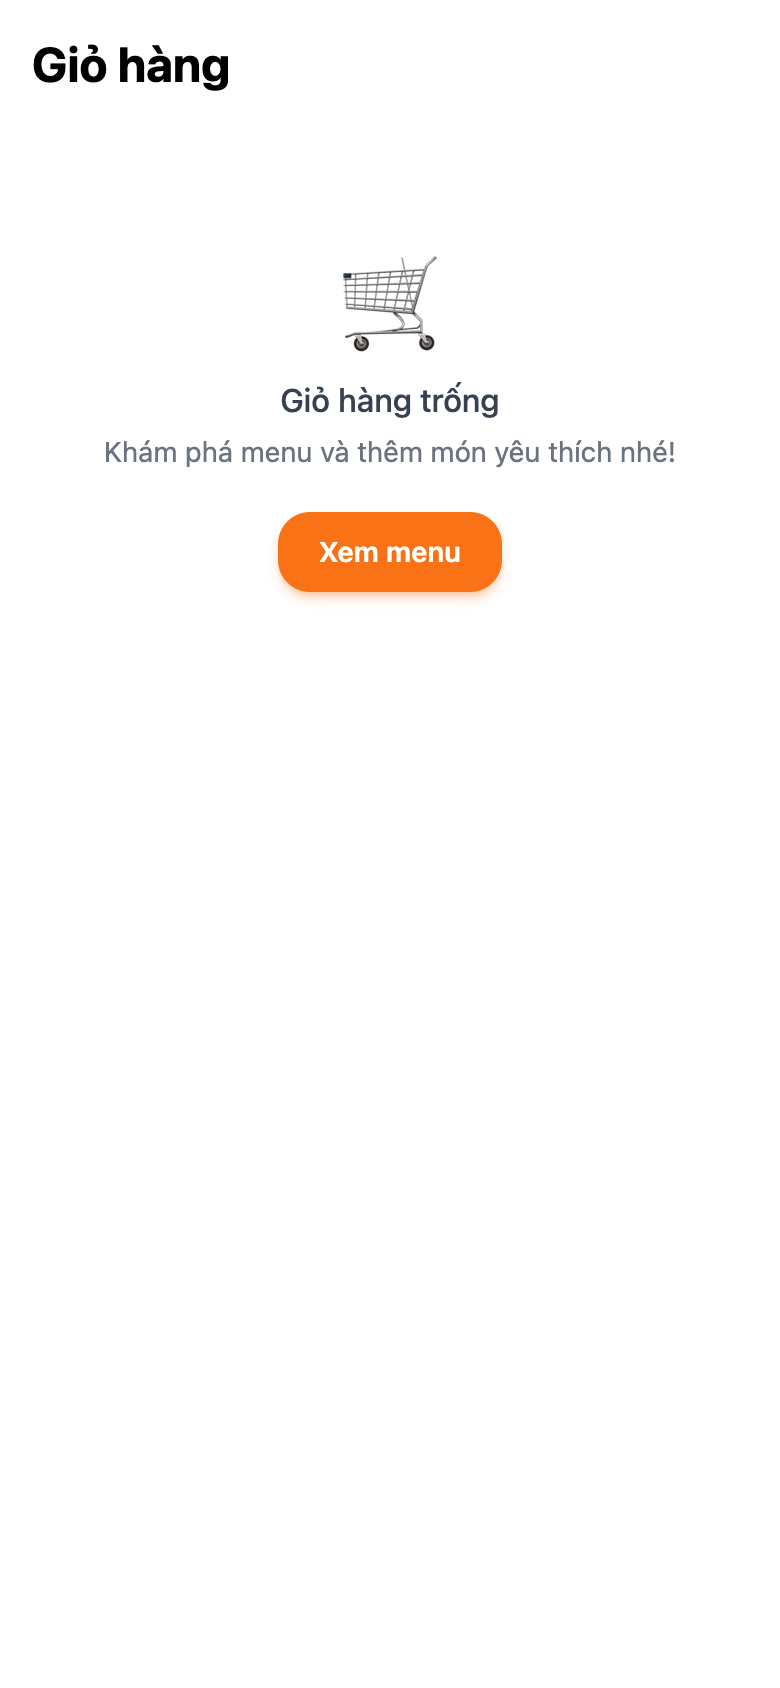
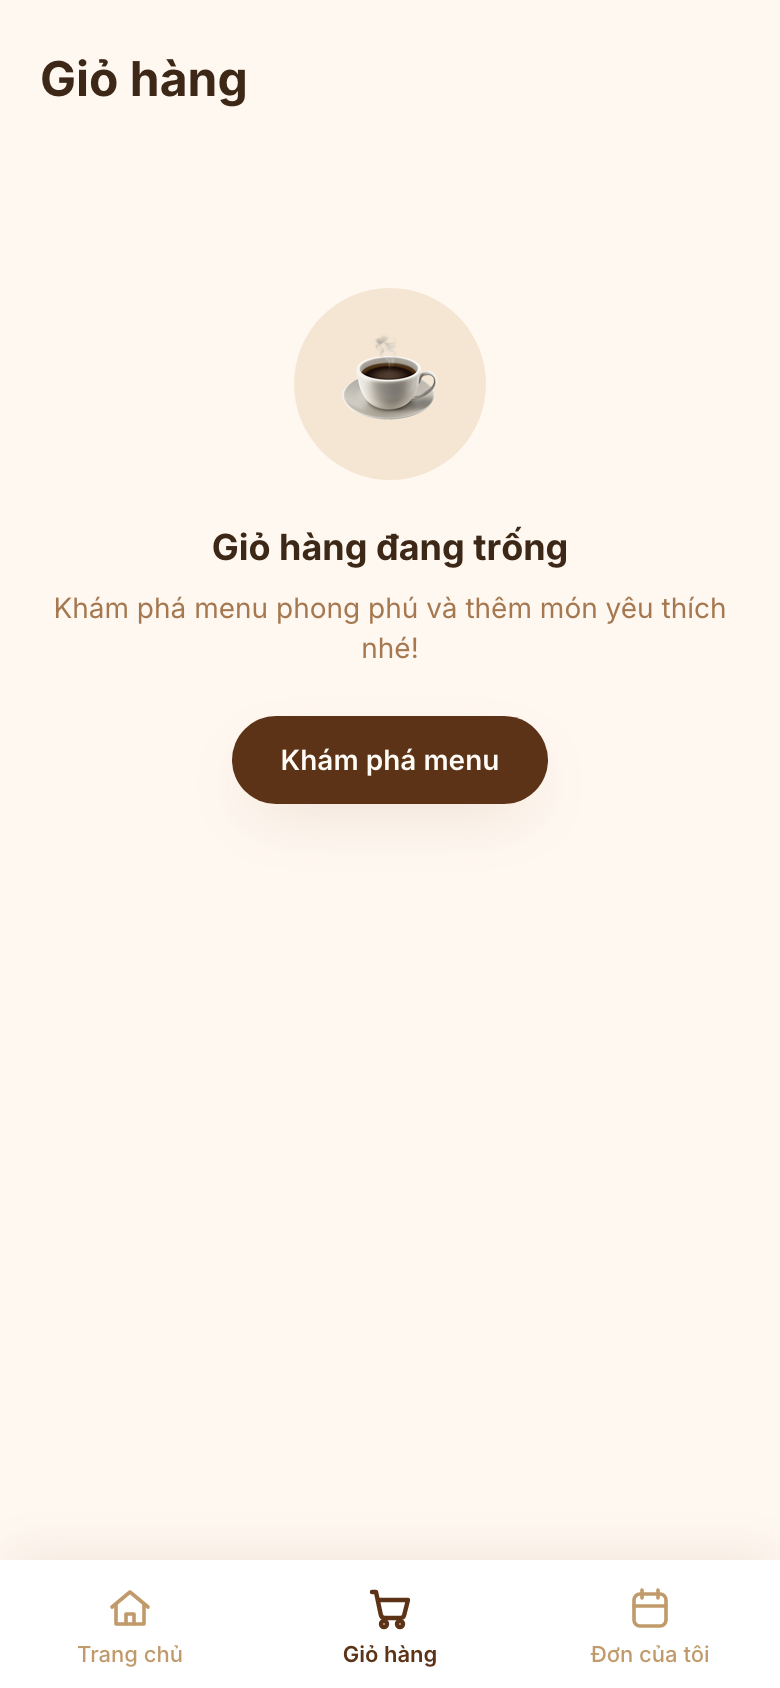
docs(thesis): refresh screenshots + document Settings page (Hình 4.5)
Recaptured 9 stale screenshots (miniapp + webadmin) after fixing a duplicate
React copy in the miniapp/zaloapp workspaces — a stray pnpm@10 store layered on
top of the workspace's pnpm@9 install was causing "Cannot read properties of
null (reading 'useState')" at startup. Added admin-08-settings.png for the new
shop-config Settings page.

Chương 4:
- 4.4.2 Mini App: document ThemeProvider + useShopConfig publishing CSS vars
- 4.4.3 Web Admin: add Hình 4.5 (Settings page) + describe shop-config flow
- 4.5 Migrations: bump count 12 → 13, add V13 shop_config row, fix V1 prose
  (V1 creates app_meta, not shop_config — that's V13)

Chương 5: bump stats (13 migrations, 19 screenshots).

06-danh-muc-hinh.md: list Hình 4.2 → 4.5 inline with the chapter.

Also includes a small DashboardPage tweak to render the live shop name in the
page header, matching the dynamic-theming theme of this work.

diff --git a/frontend/webadmin/src/pages/DashboardPage.tsx b/frontend/webadmin/src/pages/DashboardPage.tsx
@@ -65,7 +65,7 @@ export function DashboardPage() {
 
   return (
     <div>
-      <PageHeader title="Tổng quan" subtitle="Tóm tắt hoạt động shop trong hôm nay" />
+      <PageHeader title={`Tổng quan ${shopName}`} subtitle="Tóm tắt hoạt động shop trong hôm nay" />
 
       <div className="grid grid-cols-1 md:grid-cols-2 lg:grid-cols-4 gap-4">
         <StatCard icon={IconOrders}    color="blue"   label="Đơn hôm nay"             value={data.ordersToday.total} />

diff --git a/docs/thesis/06-danh-muc-hinh.md b/docs/thesis/06-danh-muc-hinh.md
@@ -37,7 +37,11 @@
 | Hình 3.21 | Mini App shipper — chi tiết assignment với nút "Bắt đầu giao" và "Đã giao" |  |
 | Hình 3.22 | Mini App — môi trường dev qua Cloudflare Tunnel HTTPS để test Telegram thật |  |
 | Hình 4.1 | Cây thư mục tổng thể của dự án |  |
-| Hình 4.2 | Sơ đồ triển khai Docker Compose — 5 container |  |
+| Hình 4.2 | Mini App — danh mục sản phẩm (giao diện The Coffee House) |  |
+| Hình 4.3 | Web Admin — Dashboard với KPI và biểu đồ doanh thu |  |
+| Hình 4.4 | Web Admin — Reports với LineChart doanh thu theo khoảng ngày |  |
+| Hình 4.5 | Web Admin — trang Settings cấu hình brand, pickup và phí giao |  |
+| Hình 4.6 | Sơ đồ triển khai Docker Compose — 5 container |  |
 | Hình 5.1 | Tổng hợp tính năng đã hiện thực so với phạm vi MoSCoW |  |
 
 \newpage
